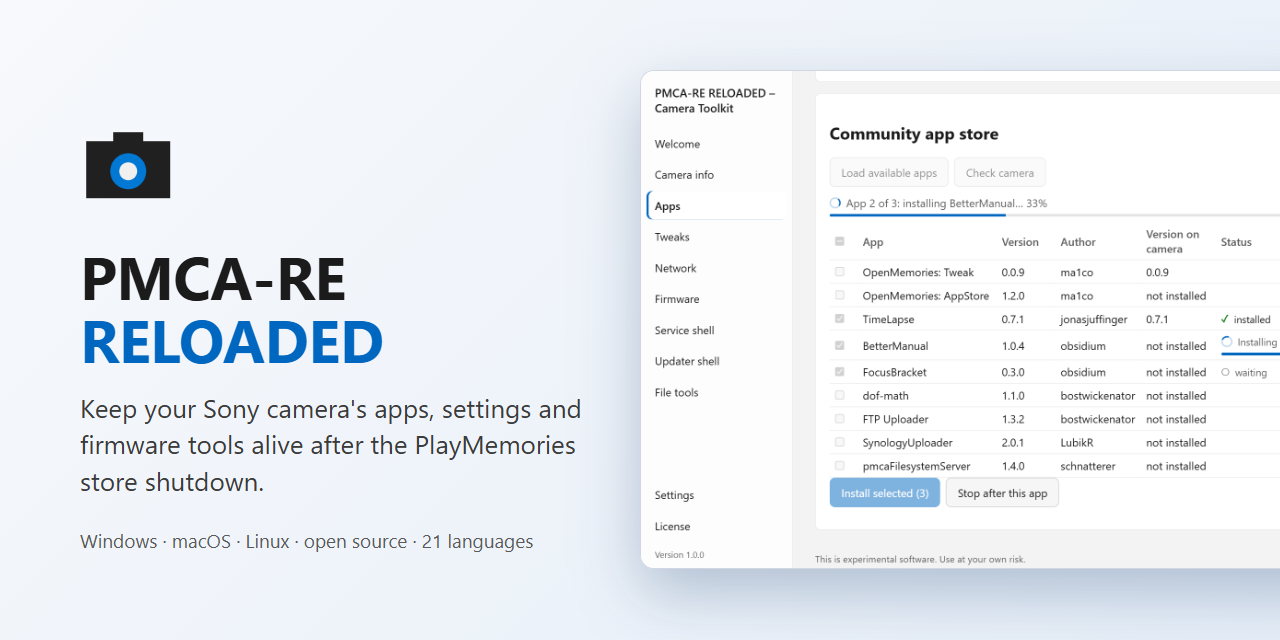
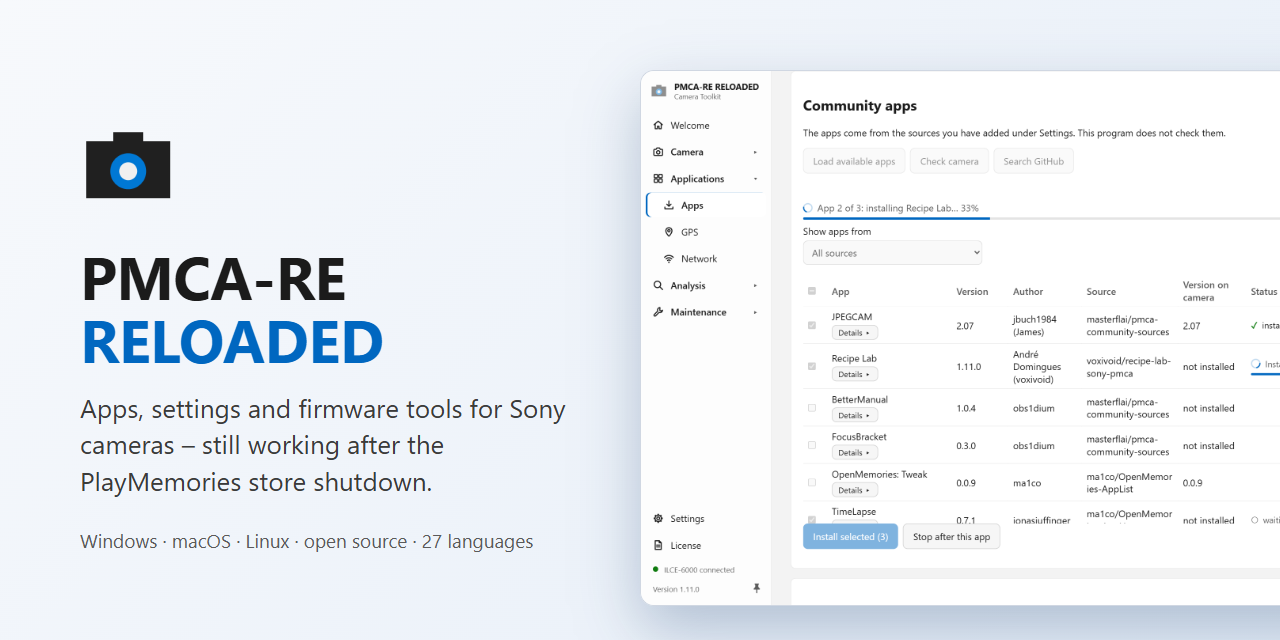
Website: name Sony as the cameras the toolkit is for; refresh the social preview

diff --git a/docs/index.html b/docs/index.html
@@ -3,7 +3,7 @@
 <head>
 <meta charset="utf-8">
 <meta name="viewport" content="width=device-width, initial-scale=1">
-<title>PMCA-RE RELOADED – Sony camera toolkit over USB (Sony-PMCA-RE successor)</title>
+<title>PMCA-RE RELOADED – USB toolkit for Sony cameras (successor to Sony-PMCA-RE)</title>
 <meta name="description" content="Free, open-source desktop app for Sony cameras over USB on Windows, macOS and Linux: camera info, shutter count, install PlayMemories camera apps such as OpenMemories Tweak, firmware updates and hidden settings. A Rust rewrite of Sony-PMCA-RE.">
 <link rel="canonical" href="https://masterflai.github.io/pmca-re-reloaded/">
 <link rel="icon" type="image/png" href="images/icon.png">
@@ -12,7 +12,7 @@
 
 <meta property="og:type" content="website">
 <meta property="og:site_name" content="PMCA-RE RELOADED">
-<meta property="og:title" content="PMCA-RE RELOADED – Sony camera toolkit over USB">
+<meta property="og:title" content="PMCA-RE RELOADED – USB toolkit for Sony cameras">
 <meta property="og:description" content="Camera info, shutter count, PlayMemories camera apps, firmware and hidden settings for Sony cameras – on Windows, macOS and Linux. Open source, MIT license.">
 <meta property="og:url" content="https://masterflai.github.io/pmca-re-reloaded/">
 <meta property="og:image" content="https://masterflai.github.io/pmca-re-reloaded/images/social-preview.png">
